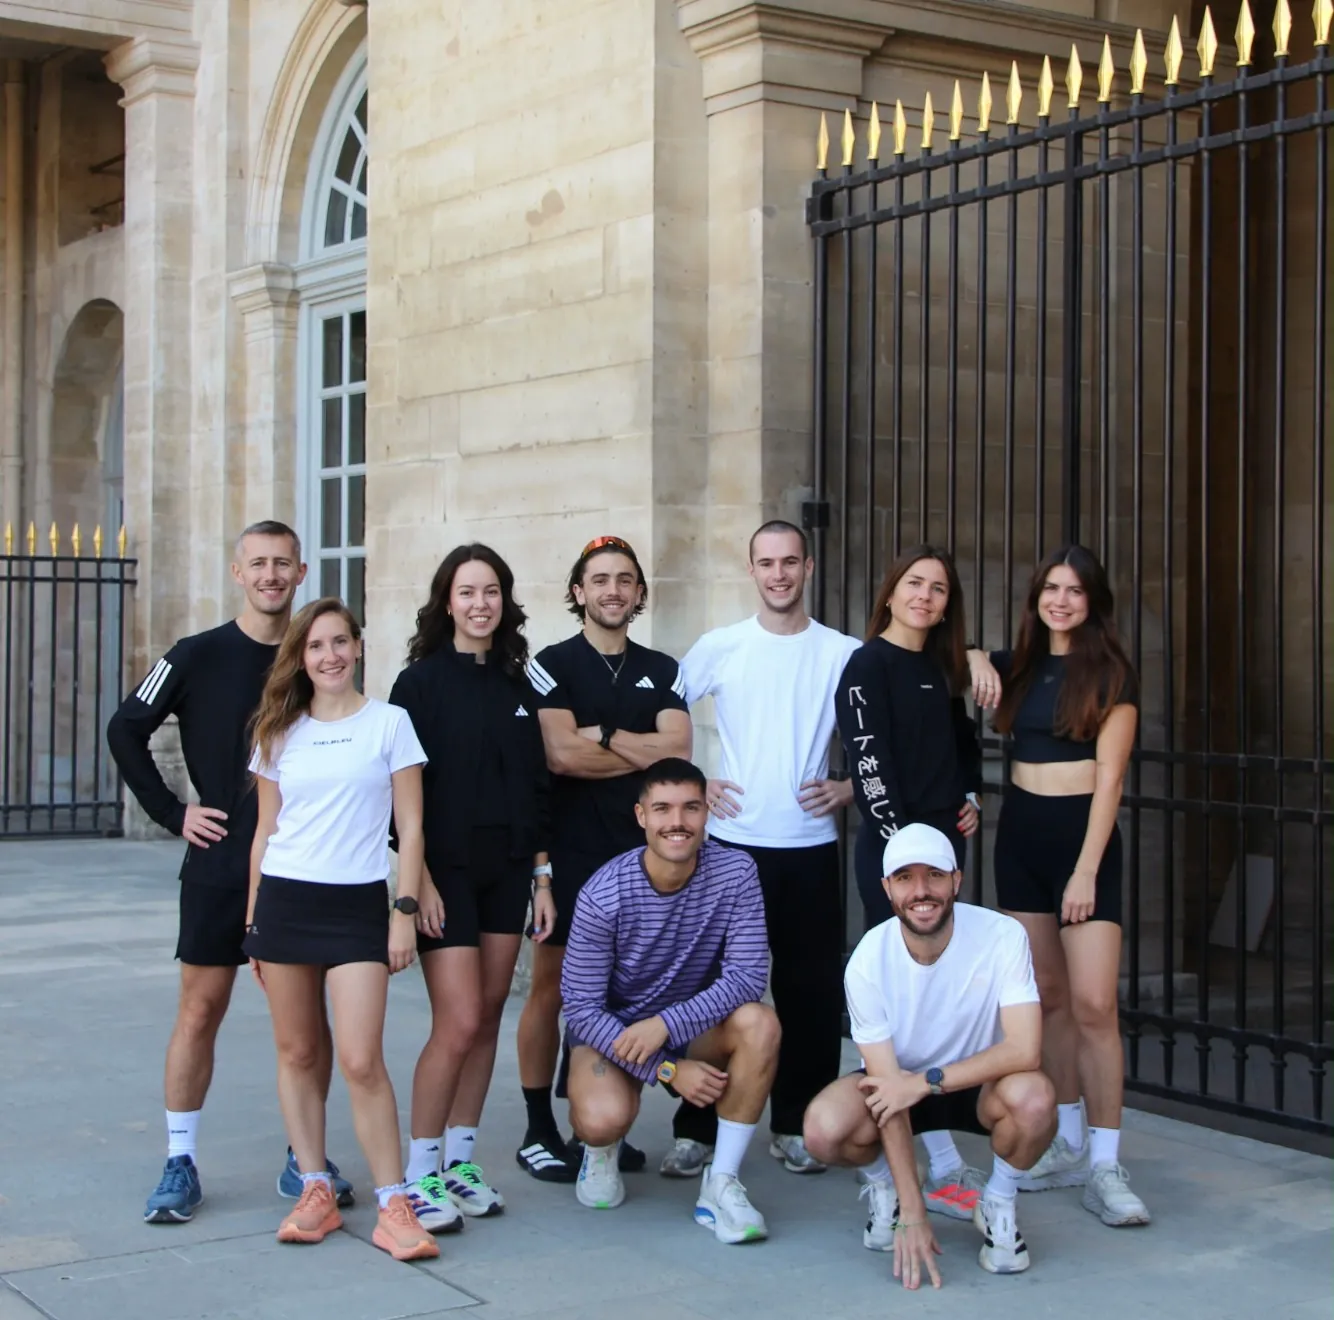
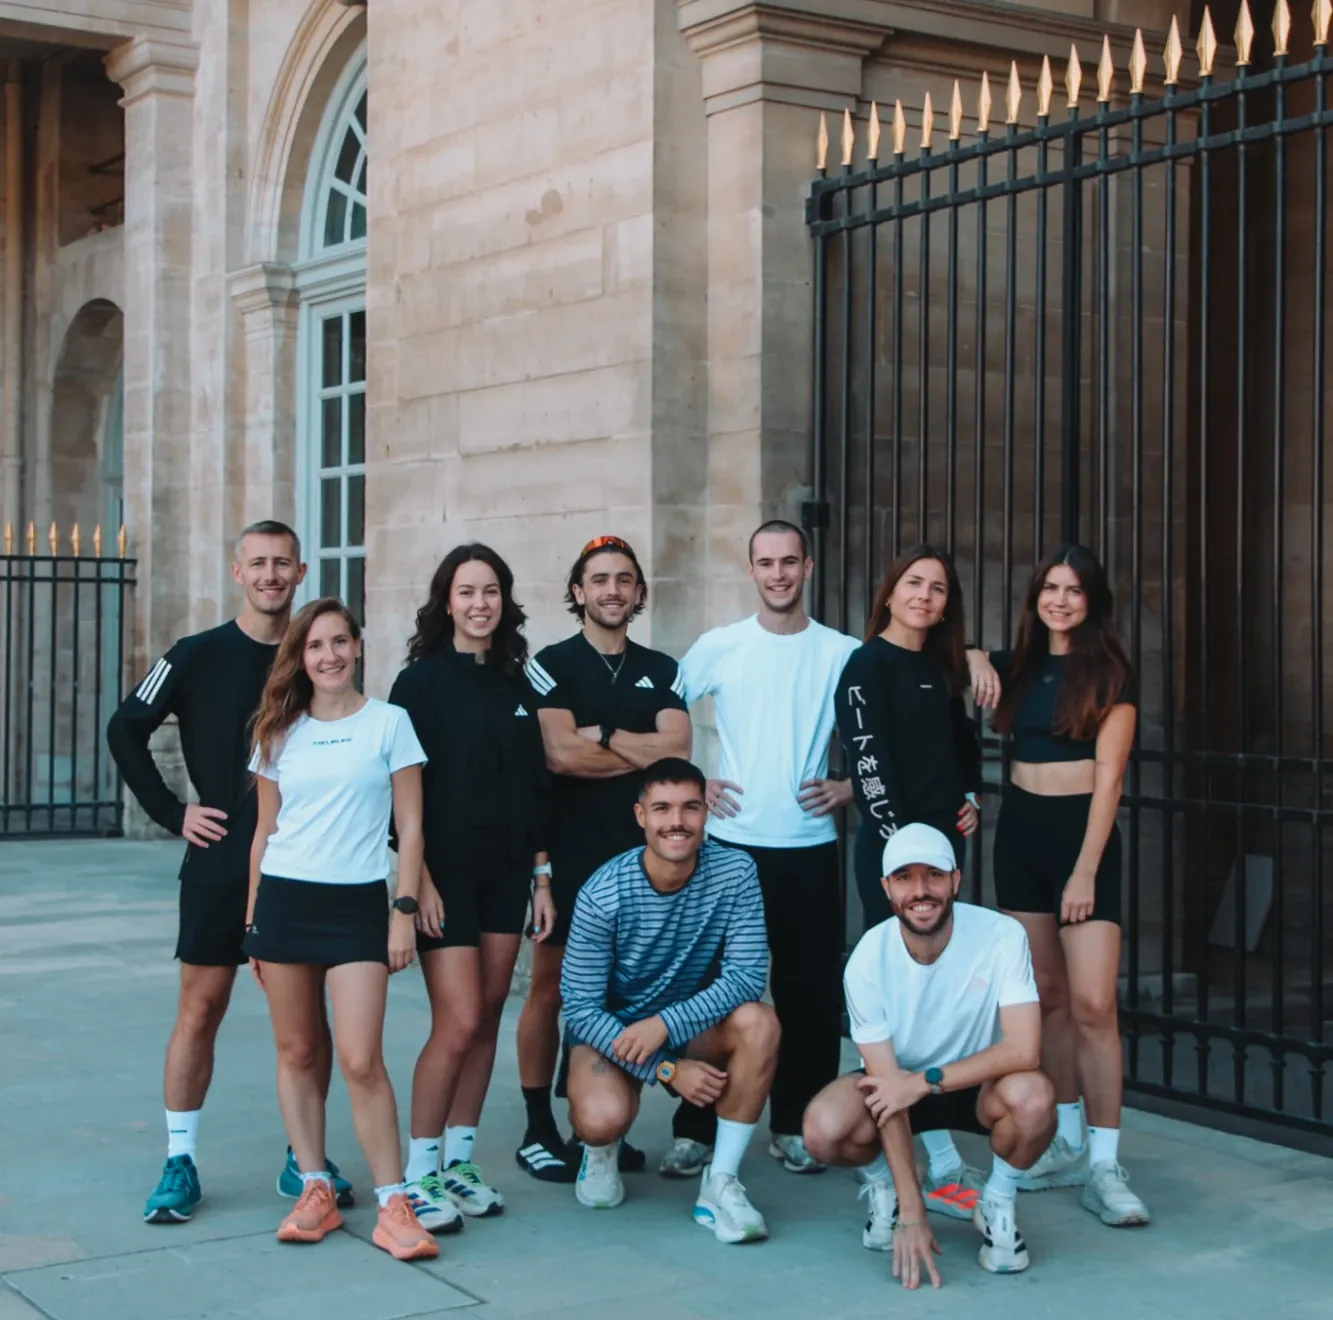
Page équipe : photo de couverture plus nette

diff --git a/notre-equipe.html b/notre-equipe.html
@@ -233,8 +233,8 @@ footer{background:var(--navy-deep);padding:40px 60px;}
 <!-- HERO -->
 <header class="page-hero">
   <picture>
-    <source media="(max-width:768px)" srcset="images/couvertures/equipe-mobile.webp?v=4">
-    <img src="images/couvertures/equipe.webp?v=4" alt="" class="page-hero-bg-img" fetchpriority="high">
+    <source media="(max-width:768px)" srcset="images/couvertures/equipe-mobile.webp?v=5">
+    <img src="images/couvertures/equipe.webp?v=5" alt="" class="page-hero-bg-img" fetchpriority="high">
   </picture>
   <div class="page-hero-eyebrow">L'organisation · Saison 3</div>
   <h1>UNE ÉQUIPE <em>ORGA</em><br>DE CHOC.</h1>
